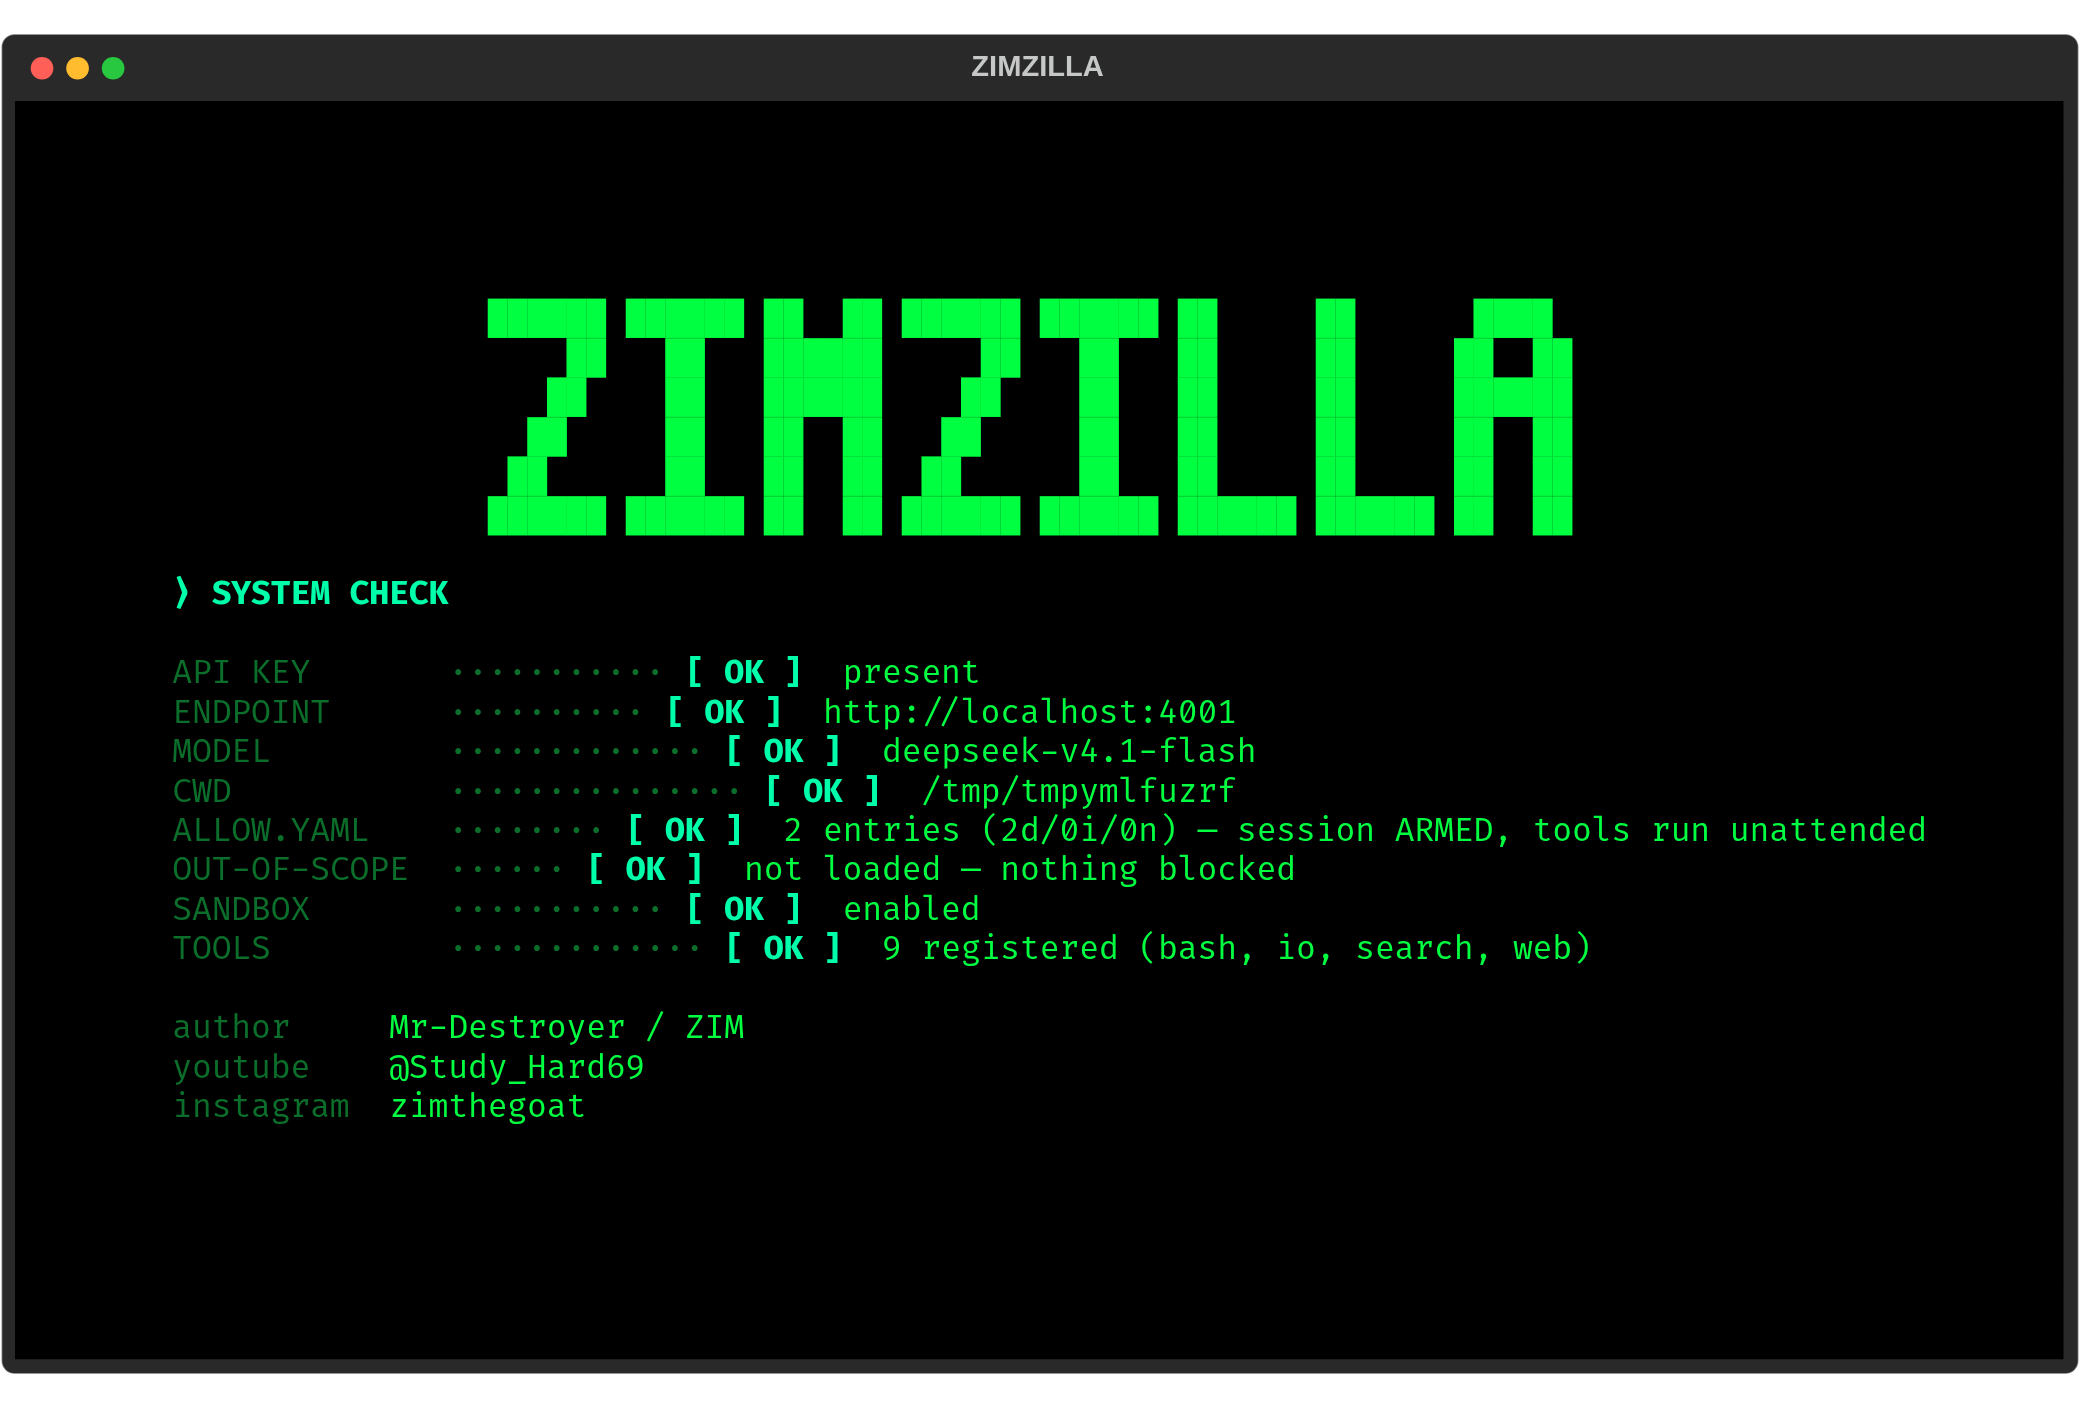
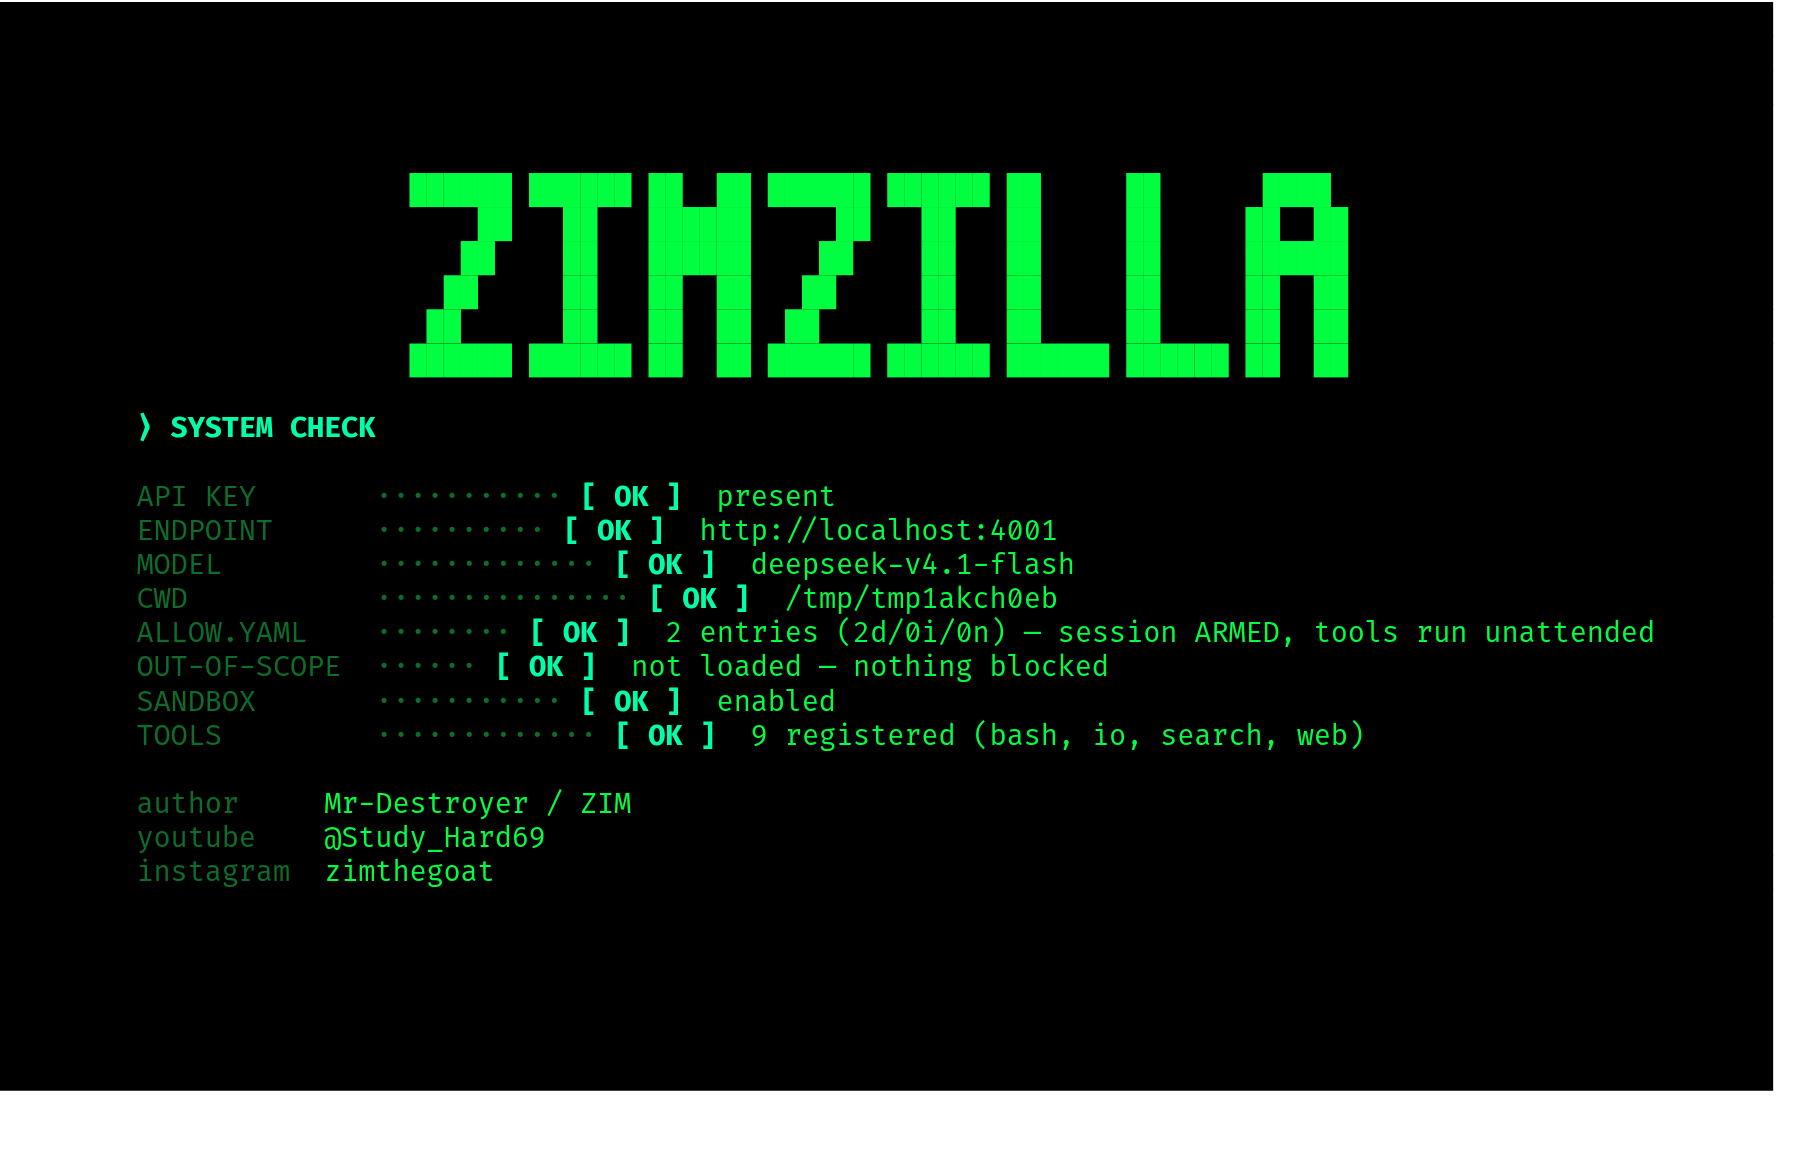
width and other problem around theming fixed

diff --git a/docs/gen_screenshots.py b/docs/gen_screenshots.py
@@ -15,6 +15,7 @@ tool card is the thing worth photographing.
 from __future__ import annotations
 
 import asyncio
+import re
 import shutil
 import subprocess
 import sys
@@ -114,29 +115,71 @@ def _slow_execute(real, delay: float = 1.1):
     return wrapper
 
 
-def _rasterise(svg: Path, png: Path, size: tuple[int, int]) -> None:
-    """SVG -> PNG via headless chromium. Text is what we care about."""
+# Rich's ``export_svg`` frames the terminal in a fake OS window: a #292929
+# rounded rect, a centred title, and three macOS traffic-light dots. None of it
+# is the app — the compositor fills every cell with the palette background, so
+# the terminal is uniformly black. In a README the frame reads as a grey band
+# around the whole interface, and the rect's rounded corners show through
+# behind the corner glyphs of every bordered box. Strip the chrome, and slide
+# the terminal group up to the origin so the SVG *is* the terminal.
+_CHROME = re.compile(
+    r'<rect fill="#292929".*?rx="8"/>'
+    r'(?:<text class="[^"]*-title".*?</text>)?'
+    r'\s*<g transform="translate\(26,22\)">.*?</g>',
+    re.S,
+)
+_TERM_GROUP = re.compile(r'<g transform="translate\([\d.]+, [\d.]+\)"')
+
+
+def _strip_export_chrome(svg: str) -> str:
+    stripped, n = _CHROME.subn("", svg)
+    if n != 1:
+        raise SystemExit(f"expected one export chrome block, found {n}")
+    return _TERM_GROUP.sub('<g transform="translate(0, 0)"', stripped, count=1)
+
+
+#: Textual exports one SVG user-unit per terminal cell, and the SVG's viewBox is
+#: sized in those units — so the window has to match that shape or chromium
+#: letterboxes it. With the window chrome stripped a letterbox is black on
+#: black, which silently pads every shot with a dead margin.
+_VIEWBOX = re.compile(r'viewBox="0 0 ([\d.]+) ([\d.]+)"')
+
+#: The README shows these at 880px, so render ~2x that and let the SVG scale the
+#: rest of the way. A fixed target width keeps every shot the same size on the
+#: page and the PNGs small; the SVG scales to whatever window it is given, so
+#: only the *ratio* has to come from the viewBox.
+_TARGET_PX = 1800
+_SCALE = 2
+
+
+def _rasterise(svg_text: str, png: Path) -> None:
+    """SVG -> PNG via headless chromium, at the SVG's own aspect ratio."""
     chrome = (shutil.which("chromium") or shutil.which("chromium-browser")
               or shutil.which("google-chrome"))
     if chrome is None:
         raise SystemExit("chromium not found — cannot rasterise the SVGs")
-    w, h = size
-    subprocess.run(
-        [chrome, "--headless", "--no-sandbox", "--disable-gpu",
-         "--hide-scrollbars", "--force-device-scale-factor=2",
-         f"--screenshot={png}", f"--window-size={w},{h}",
-         "--default-background-color=00000000", f"file://{svg}"],
-        check=True, capture_output=True,
-    )
+    m = _VIEWBOX.search(svg_text)
+    if m is None:
+        raise SystemExit("no viewBox in the exported SVG")
+    vw, vh = float(m.group(1)), float(m.group(2))
+    w = _TARGET_PX // _SCALE
+    h = round(w * vh / vw)
+    with tempfile.TemporaryDirectory() as td:
+        tmp = Path(td) / "shot.svg"
+        tmp.write_text(svg_text)
+        subprocess.run(
+            [chrome, "--headless", "--no-sandbox", "--disable-gpu",
+             "--hide-scrollbars", f"--force-device-scale-factor={_SCALE}",
+             f"--screenshot={png}", f"--window-size={w},{h}",
+             # Opaque black rather than transparent: the terminal is black, so
+             # any rounding sliver blends in instead of showing the page behind.
+             "--default-background-color=FF000000", f"file://{tmp}"],
+            check=True, capture_output=True,
+        )
 
 
-def _write_shot(app, name: str, size: tuple[int, int]) -> None:
-    svg = OUT / f"{name}.svg"
-    svg.write_text(app.export_screenshot())
-    # Textual exports one SVG user-unit per terminal cell; scale so a cell is
-    # roughly a real character box, then let the device scale factor double it.
-    _rasterise(svg, OUT / f"{name}.png", (size[0] * 10, size[1] * 22))
-    svg.unlink(missing_ok=True)
+def _write_shot(app, name: str) -> None:
+    _rasterise(_strip_export_chrome(app.export_screenshot()), OUT / f"{name}.png")
     print(f"  wrote {name}.png")
 
 
@@ -154,7 +197,7 @@ async def _shot_boot(wd: Path) -> None:
         await pilot.pause()
         await asyncio.sleep(2.9)
         await pilot.pause()
-        _write_shot(app, "01-boot", BOOT_SIZE)
+        _write_shot(app, "01-boot")
 
 
 async def _shot_shell(wd: Path) -> None:
@@ -189,7 +232,7 @@ async def _shot_shell(wd: Path) -> None:
                     break
             await asyncio.sleep(0.35)
             await pilot.pause()
-            _write_shot(app, "02-shell", SHELL_SIZE)
+            _write_shot(app, "02-shell")
 
             # Let it finish so the process exits cleanly.
             for _ in range(400):
@@ -213,7 +256,7 @@ async def _shot_list(wd: Path, name: str, command: str) -> None:
         await pilot.pause()
         await asyncio.sleep(0.2)
         await pilot.pause()
-        _write_shot(app, name, LIST_SIZE)
+        _write_shot(app, name)
 
 
 async def main() -> None:
@@ -242,4 +285,5 @@ async def main() -> None:
     print("done.")
 
 
-asyncio.run(main())
+if __name__ == "__main__":
+    asyncio.run(main())
